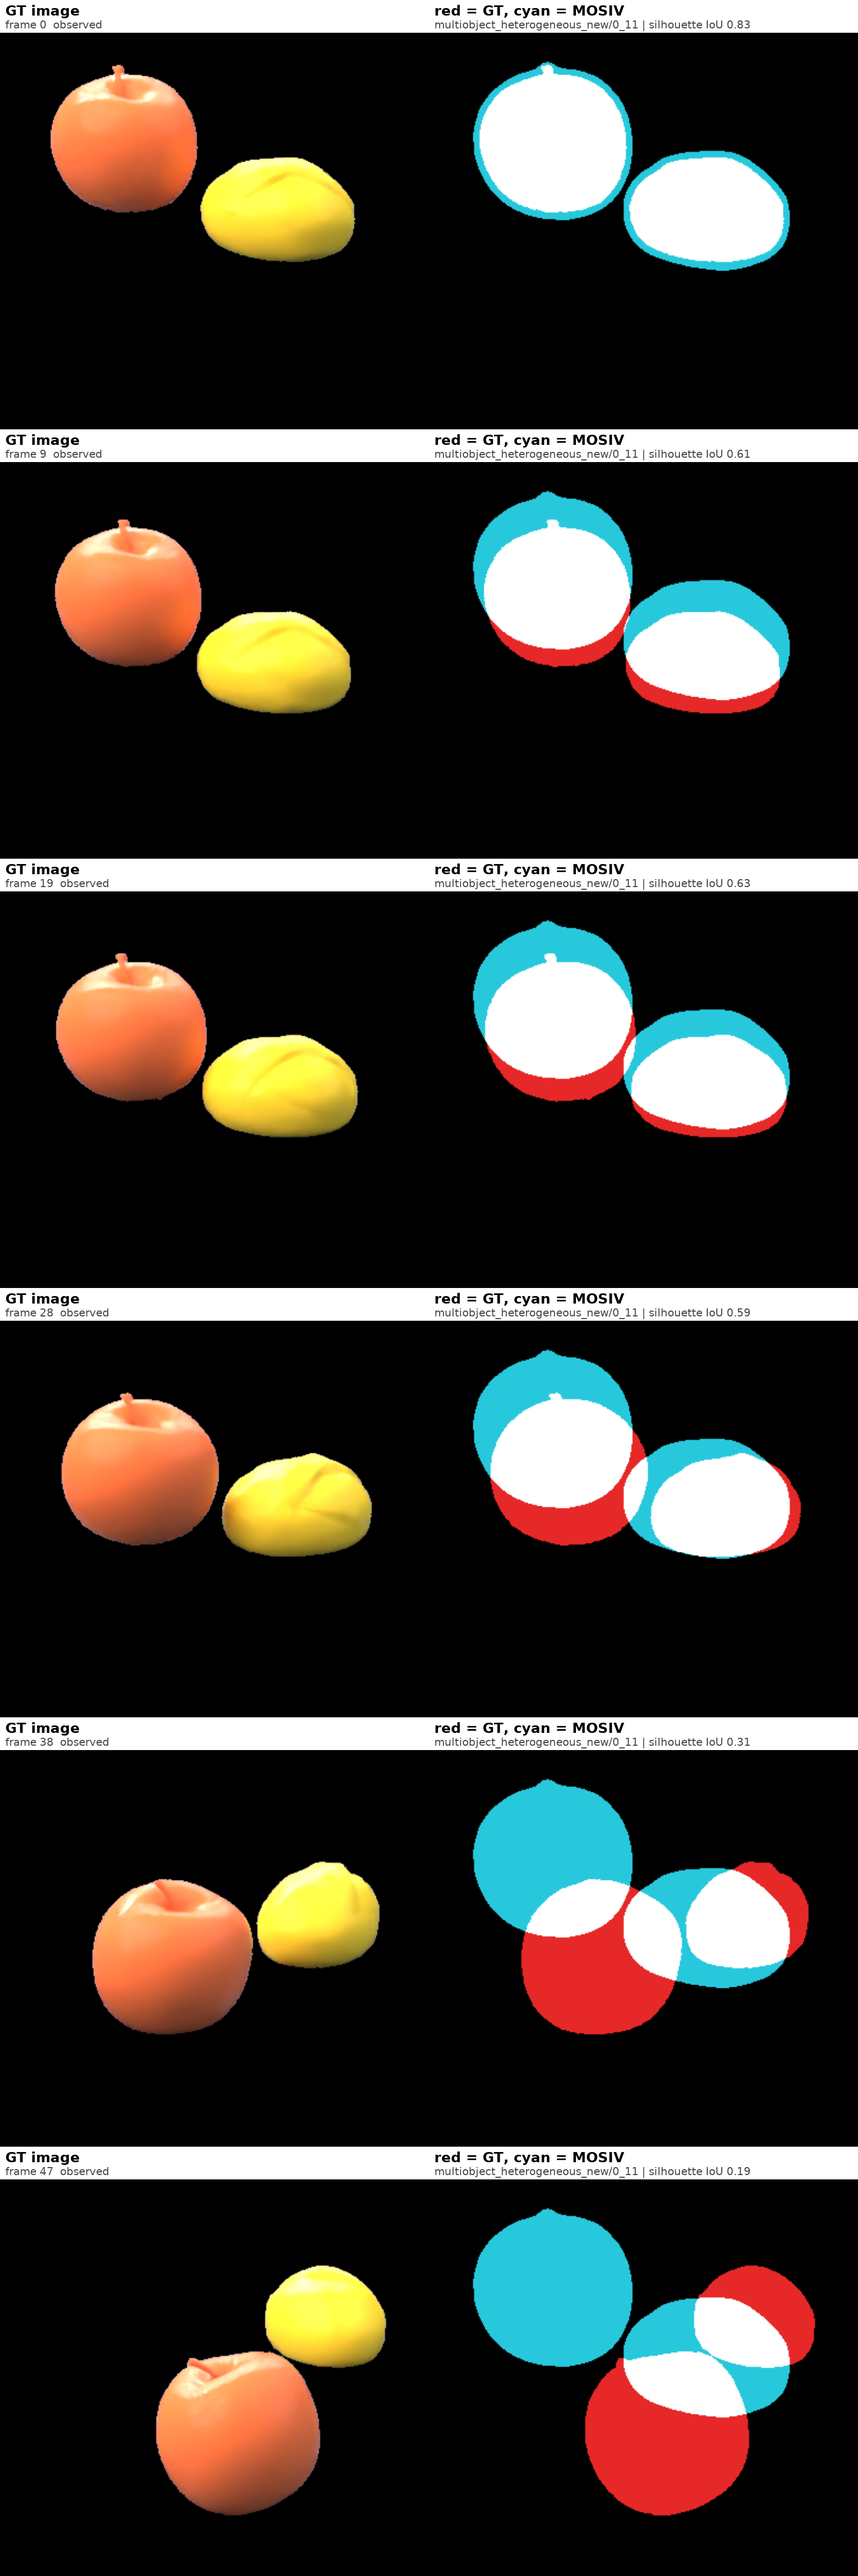
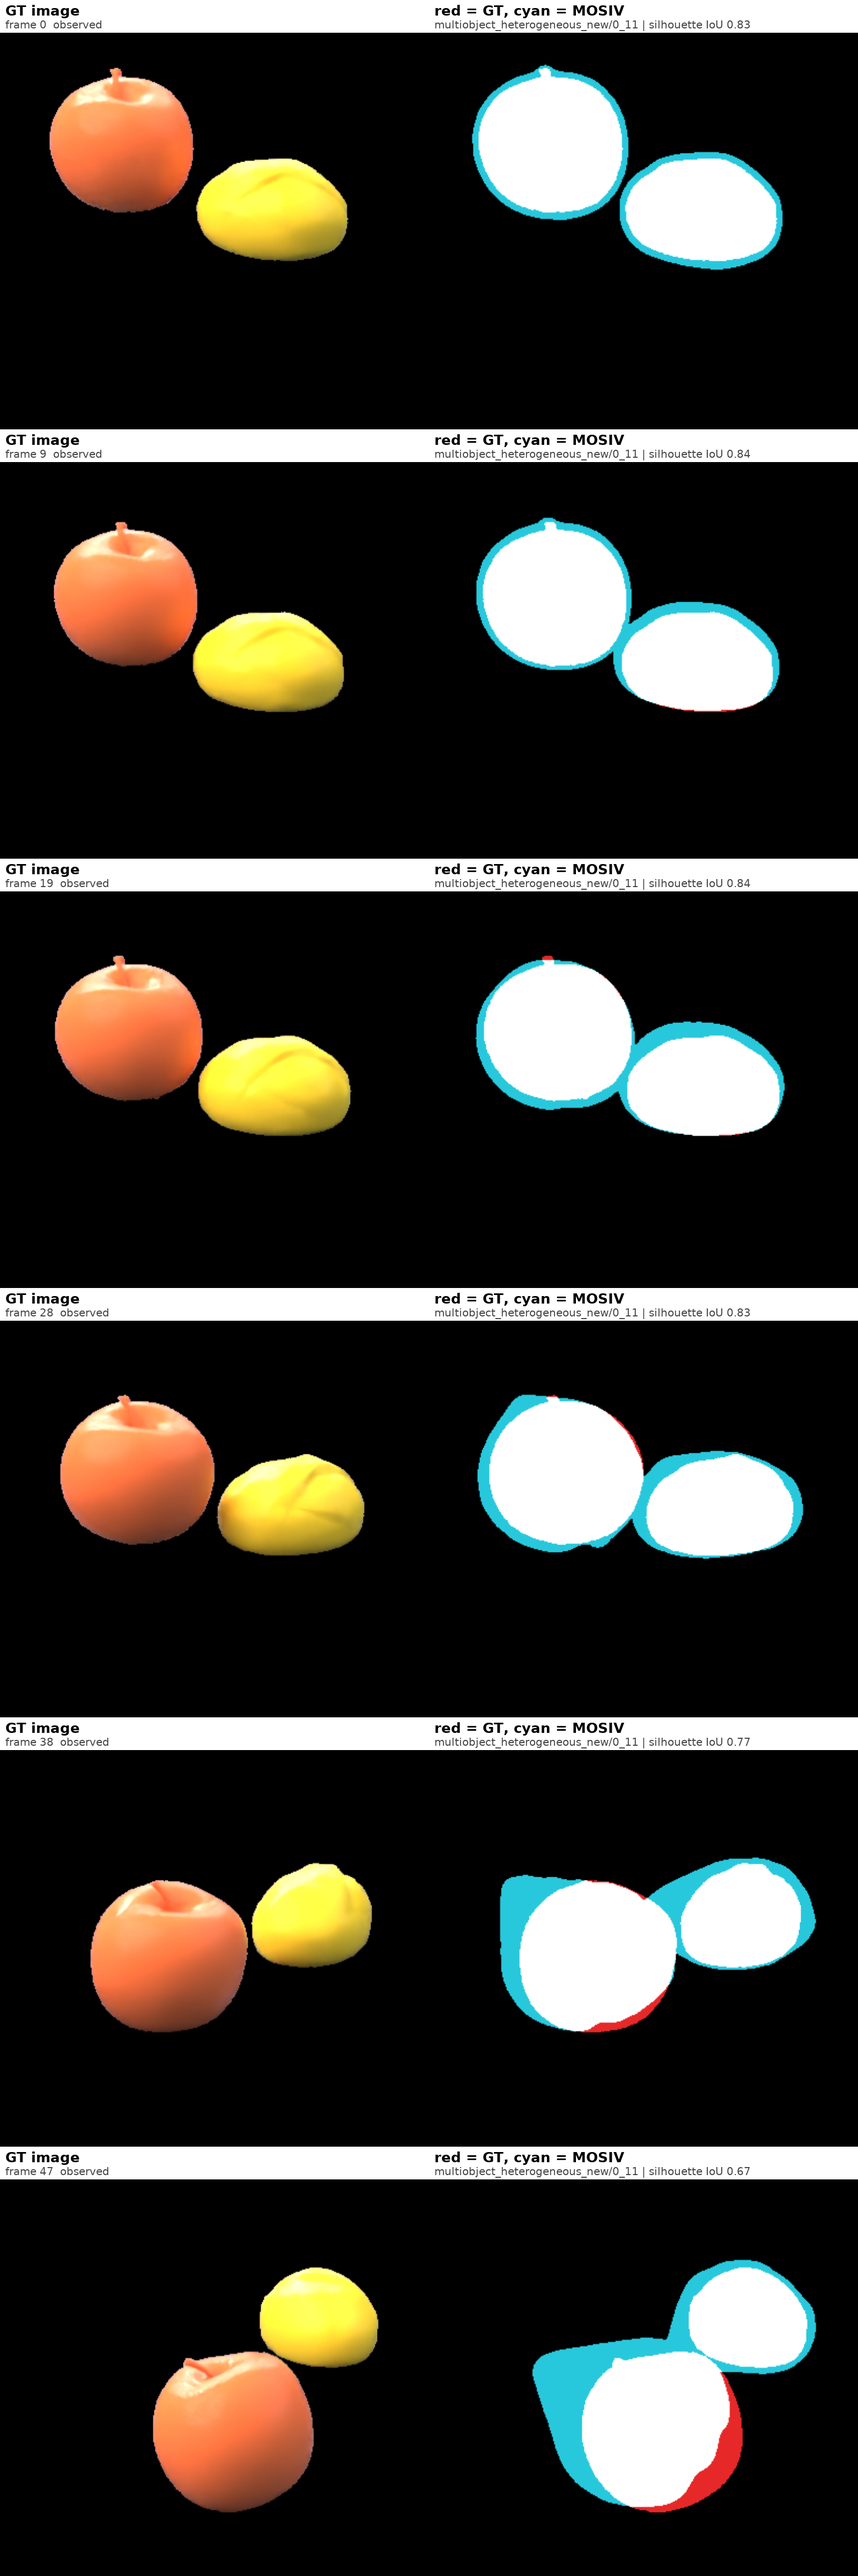
MOSIV export: keep GIC's chunk caching and CFL dt-halving in the rollout (the first export restarted every chunk); 0_11 results re-evaluated (CD 0.57, IoU 0.81)

diff --git a/MOSIV/export_prediction.py b/MOSIV/export_prediction.py
@@ -177,20 +177,31 @@ def main():
     view_id = a.view_id if a.view_id is not None else int((getattr(phys, "test_cam_ids", None) or [0])[0])
 
     sim = est.simulator
-    n_sub = int(sim.n_substeps[None])
-    rows, seq = [], []
-    for f in range(frames):
-        if f > 0:
-            sim.set_frame(f - 1)
-            for i in range(n_sub * (f - 1), n_sub * f):
-                if sim.cfl_satisfy[None]:
-                    sim.substep(i, cache=False)
-        pos = np.zeros((est.num_particles[None], 3), np.float32)
-        sim.get_x(f, pos)
-        if not sim.cfl_satisfy[None] or not np.isfinite(pos).all():
-            print(f"[export] simulation failed at frame {f} (CFL/NaN); holding the last state")
-            pos = seq[-1] if seq else pos
-        seq.append(pos)
+    # rollout with GIC's CFL handling (as train_dynamic_MO.forward): on a CFL failure the substep is
+    # halved and the whole rollout restarts from frame 0. est.forward(f) == simulator.advance(f-1)
+    # with the chunk caching (push_to_memory carries the state across 100-substep chunks) + get_x(f).
+    dt = float(sim.dt_ori[None])
+    for attempt in range(6):
+        seq, failed = [], None
+        est.initialize()
+        sim.set_dt(dt)
+        for f in range(frames):
+            with torch.no_grad():
+                pos = est.forward(f, img_backward=False)
+            pos = pos.detach().cpu().numpy().astype(np.float32) if torch.is_tensor(pos) else np.asarray(pos, np.float32)
+            if not sim.cfl_satisfy[None] or not np.isfinite(pos).all():
+                failed = f
+                break
+            seq.append(pos)
+        if failed is None:
+            break
+        dt /= 2
+        print(f"[export] CFL failure at frame {failed}; retrying with dt {dt:.3e} ({round(1 / (dt * float(phys.fps)))} substeps/frame)")
+    while len(seq) < frames:  # give up: hold the last finite state
+        print(f"[export] simulation still failing after {attempt + 1} attempts; holding the last state from frame {len(seq)}")
+        seq.append(seq[-1] if seq else np.zeros((est.num_particles[None], 3), np.float32))
+    rows = []
+    for f, pos in enumerate(seq):
         write_xyz(model / "mpm" / f"simulation_{f}.ply", pos)
         row = dict(frame=f)
         for k in range(2):

diff --git a/results/physon_README.md b/results/physon_README.md
@@ -37,23 +37,26 @@ Files: `physon_multiobject/mosiv/0_11.json`, `0_11_overlay.mp4`, `0_11_overlay_f
 `MOSIV/output/physon/multiobject_heterogeneous_new/0_11/{prediction_metrics.json,0_11-pred.json}`.
 Run: object-aware 3DGS 40k iterations, lifting (152k particles), 80 velocity iterations,
 80 parameter iterations (upstream default 300; 2.3 min/iteration over 48 frames), 4.8 h on one H200.
+The rollout re-simulates the fitted scene with GIC's CFL handling (dt halved on a CFL failure and
+the rollout restarted, as in training; here 400 substeps/frame were needed).
 
 | | CD all (10³ mm²) | CD apple | CD bread | EMD (m) | silhouette IoU (cam 0) |
 |---|---|---|---|---|---|
-| MOSIV | 43.3 | 91.4 | 21.0 | 0.171 | 0.53 |
+| MOSIV | 0.57 | 0.56 | 0.46 | 0.037 | 0.81 |
+| MOSIV paper, its own 2-object benchmark (observable frames, Table 1) | 1.26 | | | | PSNR 30.5 |
 
-Per-frame CD (all / apple / bread): 0.5/0.4/0.5 (frame 0), 0.7/0.6/0.6, 1.7/2.2/0.7, 4.6/6.6/1.5
-(frame 24), 32/54/9 (frame 32), 118/238/47 (frame 40). Fitted parameters vs GT:
+Per-frame CD (all / apple / bread): 0.47/0.39/0.47 (frame 0), 0.36/0.35/0.28 (8), 0.41/0.35/0.39 (16),
+0.48/0.50/0.36 (24), 0.61/0.60/0.51 (32), 0.76/0.80/0.58 (40). IoU stays 0.83–0.86 until frame ~32 and
+drops to 0.67 at frame 47 (the apple's late deformation/contact). Fitted parameters vs GT:
 
 | object | fitted | GT |
 |---|---|---|
 | apple (elastic) | E=9.7e4, ν=−0.41, v0=(0.078, 0.006, −0.010) | E=4.5e5, ν=0.36, v0=(0.09, 0.015, 0) |
 | bread (plasticine) | E=6.8e3, ν=0.14, σ_y=6.6e3, v0=(−0.086, 0.038, 0.066) | E=6e5, ν=0.34, σ_y=1.8e4, v0=(−0.09, −0.015, 0) |
 
-The velocities are recovered; the material parameters end far too soft (MOSIV's Poisson bound
-[−0.99, 0.5] even lets ν go negative), and once the gust peaks (frame ≈ 24) the predicted objects
-leave the GT trajectories — apple worst. Instance segmentation and the first ~20 frames are fine
-(IoU 0.83 → 0.6).
+Trajectories and silhouettes are recovered well; the material parameters themselves end far too
+soft (and MOSIV's Poisson bound [−0.99, 0.5] lets ν go negative) — the motion here is dominated by
+the known gust, so the geometry loss constrains stiffness weakly.
 
 ## Reproduce / next scenes
 
